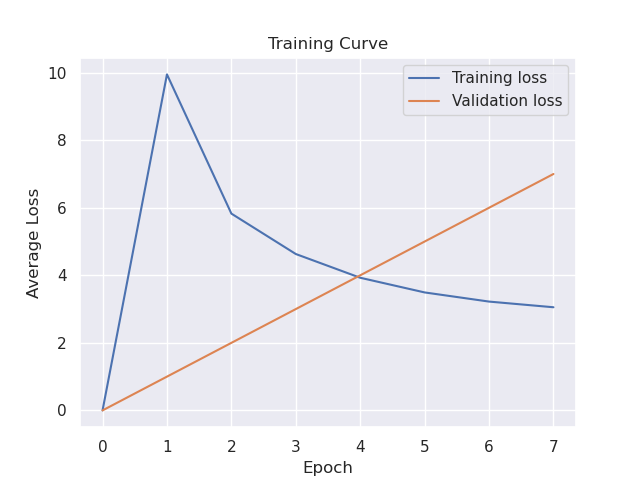
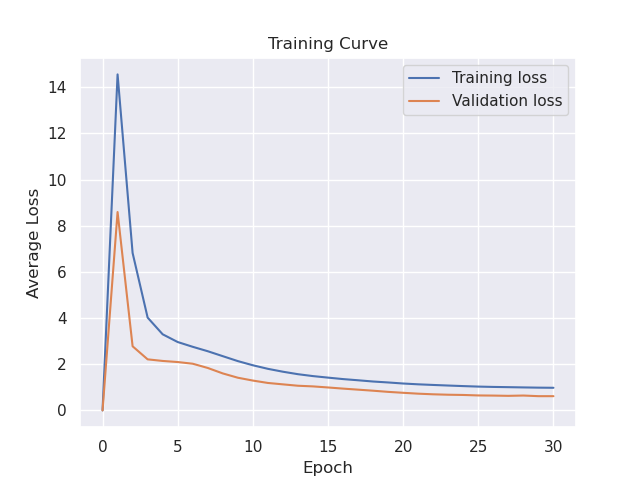
first index is reference in validation_loss and train_loss list

diff --git a/examples/embedding_cluster.py b/examples/embedding_cluster.py
@@ -17,7 +17,7 @@ import os
 import seaborn as sns; sns.set()
 import matplotlib.pyplot as plt
 
-path = "~/dataset/train_withapi_01082020.pkl"
+path = "~/dataset/train_01082020.pkl"
 df = pd.read_pickle(path)
 
 day_dict = {
@@ -35,7 +35,7 @@ def pre_process(df, inplace=True):
         df = df.copy()
     df['APIKEY'] = df['APIKEY'].apply(lambda x: x.replace("APIKEY", "")).astype(int)
     df['TIMEBIN'] = df['TIMEBIN'].apply(lambda x: x.replace("BIN", "")).astype(int)
-    df['API'] = df['API'].apply(lambda x: x.replace("API", "")).astype(int)
+    # df['API'] = df['API'].apply(lambda x: x.replace("API", "")).astype(int)
     df['DAY'] = df['DAY'].apply(lambda x : day_dict[x]).astype(int)
     df.drop(columns=['ANAMOLYDISTNUM', 'LABEL', 'NUMFAILURES'], inplace=True)
 
@@ -44,7 +44,7 @@ def pre_process(df, inplace=True):
 
 pre_process(df)
 
-cat = ['APIKEY', 'API', 'DAY', 'TIMEBIN']
+cat = ['APIKEY', 'DAY', 'TIMEBIN']
 target = ['NUMREQUESTS']
 
 
@@ -85,8 +85,8 @@ print("X_train.shape : {} Y_train.shape : {}".format(X_train.shape, Y_train.shap
 train_dataset = TensorDataset(X_train, Y_train)
 val_dataset = TensorDataset(X_test, Y_test)
 
-train_batch_size = 64
-val_batch_size = 64
+train_batch_size = 128
+val_batch_size = 128
 epochs = 50
 
 # init dataloaders
@@ -106,7 +106,7 @@ kwargs = {
     'output_layer_sz': 1,
     'emb_layer_drop': 0.5,
     'hidden_layer_drops': [0.5, 0.5, 0.5],
-    'use_bn': False,
+    'use_bn': True,
     'y_range': None
 }
 
@@ -130,8 +130,8 @@ def exit_gracefully():
 
     # save the model
     print("\nTraining curve saved in current folder with name: training_curve.png")
-    plt.plot(np.arange(len(train_loss)), train_loss, label='Training loss')
-    plt.plot(np.arange(len(validation_loss)), label='Validation loss')
+    plt.plot(np.arange(len(train_loss[1:])), train_loss[1:], label='Training loss')
+    plt.plot(np.arange(len(validation_loss[1:])), validation_loss[1:], label='Validation loss')
     plt.ylabel("Average Loss")
     plt.xlabel("Epoch")
     plt.title("Training Curve")
